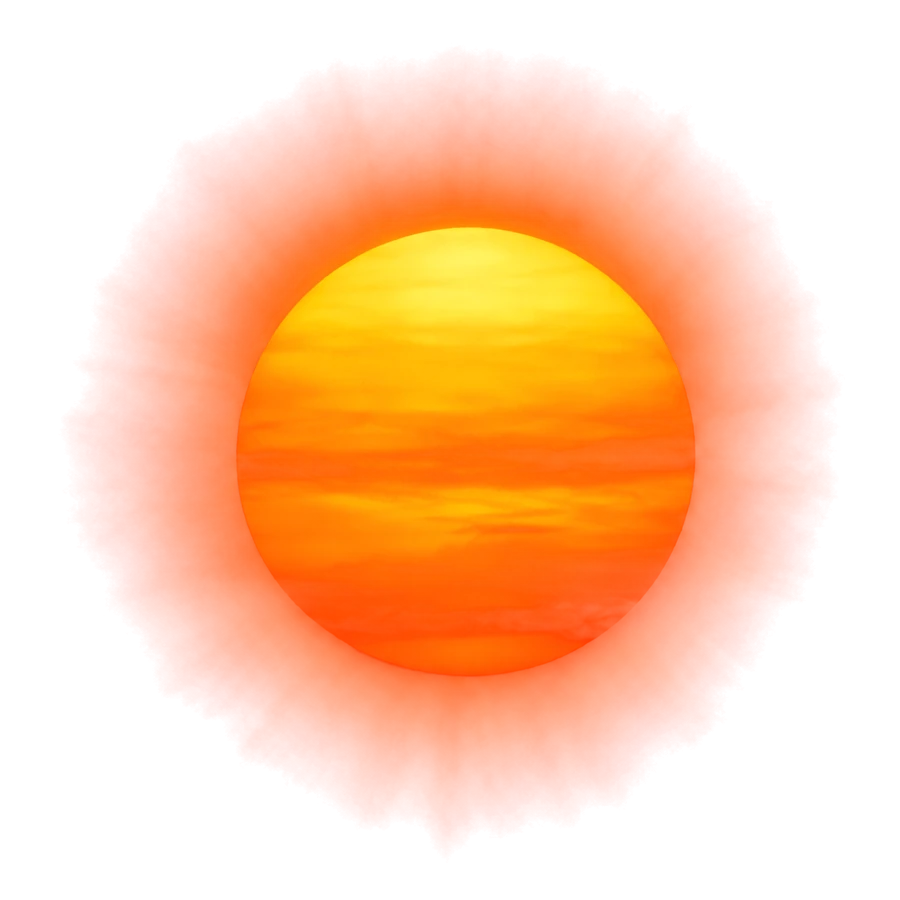
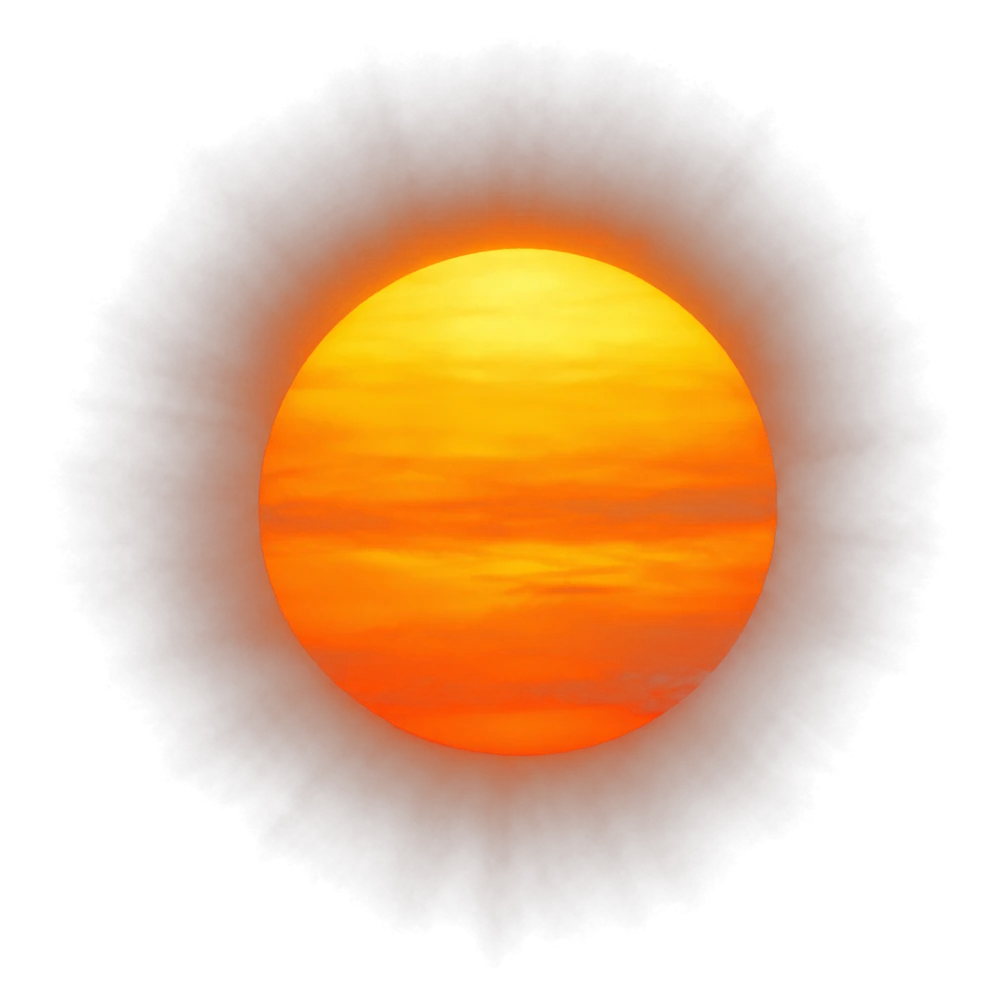
Echte Sonne jetzt richtig sichtbar (golden, gross), Tag->Abend, versinkt hinter den Bergen

Changed region(s): [[0.0933, 0.0622, 0.9022, 0.9333]]

diff --git a/index.html b/index.html
@@ -123,7 +123,7 @@ img { display: block; max-width: 100%; height: auto; }
 /* Emre und der Hund liegen in einer eigenen Hülle über allen Fassungen der Wiese (Füße, Schatten und Halme davor) */
 .szene__figuren { position: absolute; inset: 0; z-index: 1; }
 /* alles, was beim Scrollen überblendet wird, auf eigene Grafikebene – sonst malt das Handy den Himmel jedes Bild neu */
-.szene__bild[data-licht="gold"], .szene__bild[data-licht="nacht"], .himmel--gold, .himmel--blau, .himmel--nacht, .sonne__glut, .sonne__hof, .sonne__kern--abend, .sonne, .mond, .sterne canvas, .sterne__hell { will-change: opacity; }
+.szene__bild[data-licht="gold"], .szene__bild[data-licht="nacht"], .himmel--gold, .himmel--blau, .himmel--nacht, .sonne__glut, .sonne__hof, .sonne__echt, .sonne, .mond, .sterne canvas, .sterne__hell { will-change: opacity; }
 .sonne, .mond { will-change: transform, opacity; }
 
 /* Himmel: Farbverlauf hängt an der Sonnenhöhe – Tag, Goldene Stunde, blaue Stunde, Nacht */
@@ -140,9 +140,12 @@ img { display: block; max-width: 100%; height: auto; }
 .sonne { opacity: calc(1 - var(--himmel-nacht)); }
 .sonne i, .mond i, .sonne b, .mond b { position: absolute; left: 0; top: 0; border-radius: 50%; transform: translate(-50%, -50%); }
 .sonne__hof { width: calc(var(--sonne-r) * 14); height: calc(var(--sonne-r) * 14); background: radial-gradient(closest-side, rgba(255, 250, 225, 0.5), rgba(255, 240, 200, 0.16) 40%, rgba(255, 235, 190, 0) 100%); opacity: calc(1 - var(--tief) * 0.5); }
-.sonne__glut { width: calc(var(--sonne-r) * 26); height: calc(var(--sonne-r) * 16); background: radial-gradient(closest-side, rgba(255, 170, 90, 0.55), rgba(255, 120, 60, 0.18) 45%, rgba(255, 100, 50, 0) 100%); opacity: var(--tief); }
-.sonne__kern { width: calc(var(--sonne-r) * 2); height: calc(var(--sonne-r) * 2); background: radial-gradient(circle, #FFFFFA 0 50%, #FFF6D8 62%, rgba(255, 240, 200, 0) 71%); }
-.sonne__kern--abend { background: radial-gradient(circle, #FFF1C8 0 38%, #FFC06A 56%, rgba(255, 150, 70, 0) 71%); opacity: var(--tief); }
+.sonne__glut { width: calc(var(--sonne-r) * 32); height: calc(var(--sonne-r) * 20); background: radial-gradient(closest-side, rgba(255, 170, 90, 0.55), rgba(255, 120, 60, 0.18) 45%, rgba(255, 100, 50, 0) 100%); opacity: var(--tief); }
+/* echte, fotorealistische Sonne (aus Higgsfield-Bild, Schwarz->Alpha freigestellt): zentriert auf der Sonnenbahn,
+   Tag-Sonne blendet ohne Sprung in die orange Abend-Sonne, dahinter waermer Schein (Glut) und Halo (Hof) */
+.sonne__echt { position: absolute; left: 0; top: 0; transform: translate(-50%, -50%); width: calc(var(--sonne-r) * 16); height: calc(var(--sonne-r) * 16); max-width: none; object-fit: contain; }
+.sonne__echt--tag { opacity: calc(1 - var(--tief)); }
+.sonne__echt--abend { opacity: var(--tief); }
 .mond { opacity: var(--mond); }
 /* 26.09. (Emre): Mond leuchtender – weiter, weicher Schein, dazu ein enger heller Hof */
 .mond__hof { width: calc(var(--sonne-r) * 18); height: calc(var(--sonne-r) * 18); background: radial-gradient(closest-side, rgba(205, 220, 255, 0.34), rgba(175, 195, 248, 0.14) 30%, rgba(165, 185, 242, 0.05) 60%, rgba(160, 180, 240, 0) 100%); }
@@ -496,7 +499,7 @@ img { display: block; max-width: 100%; height: auto; }
       <div class="himmel himmel--blau"></div>
       <div class="himmel himmel--nacht"></div>
       <div class="sterne"></div>
-      <div class="sonne"><b class="sonne__glut"></b><b class="sonne__hof"></b><i class="sonne__kern"></i><i class="sonne__kern sonne__kern--abend"></i></div>
+      <div class="sonne"><img class="sonne__echt sonne__echt--tag" src="bilder/hero/himmel/sonne-tag.webp?v=2" srcset="bilder/hero/himmel/sonne-tag-560.webp?v=2 560w, bilder/hero/himmel/sonne-tag.webp?v=2 960w" sizes="(max-width: 700px) 300px, 400px" alt="" aria-hidden="true"><img class="sonne__echt sonne__echt--abend" src="bilder/hero/himmel/sonne-abend.webp?v=2" srcset="bilder/hero/himmel/sonne-abend-560.webp?v=2 560w, bilder/hero/himmel/sonne-abend.webp?v=2 960w" sizes="(max-width: 700px) 300px, 400px" alt="" aria-hidden="true"></div>
       <div class="mond"><b class="mond__hof"></b><b class="mond__schein"></b><i class="mond__kern"></i></div>
     </div>
     <div class="szene__ebene" data-ebene="weit" aria-hidden="true"></div>
@@ -703,7 +706,7 @@ img { display: block; max-width: 100%; height: auto; }
   </nav>
 </footer>
 
-<script src="js/szene.js?v=25"></script>
+<script src="js/szene.js?v=30"></script>
 <script>
 /* Navigation beim Runterscrollen ausblenden, Inhalte einmal sanft einblenden */
 (function () {

diff --git a/js/szene.js b/js/szene.js
@@ -728,6 +728,7 @@
     box.innerHTML = '';
     var hoehe = m.H * 0.66, r = zufall(4242), q = Math.min(m.q, 1.5);
     box.style.height = hoehe + 'px';
+    if (!(m.W > 0 && hoehe > 0)) return;  /* während einer 0-Breite (Neuaufbau) nichts zeichnen */
     /* Milchstraße: schräges Band, grob gerechnet und weich hochskaliert */
     var mw = 640, mh = Math.round(mw * hoehe / m.W), mc = document.createElement('canvas');
     mc.width = mw; mc.height = mh; mc.className = 'milchstrasse';
